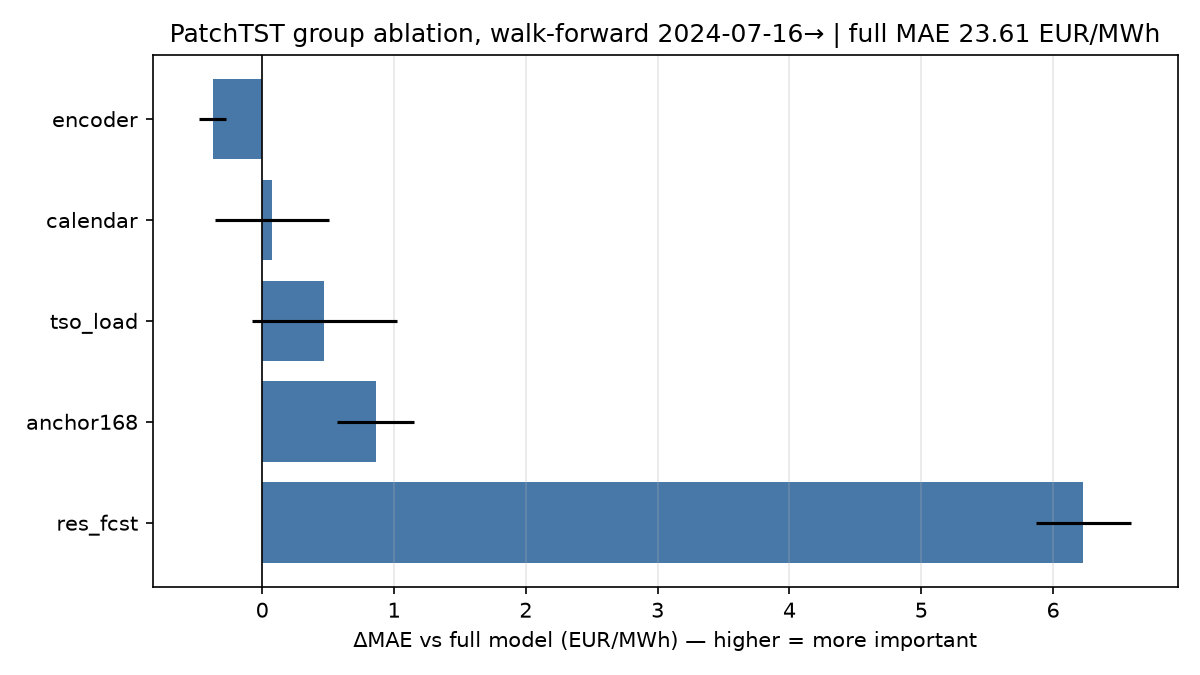
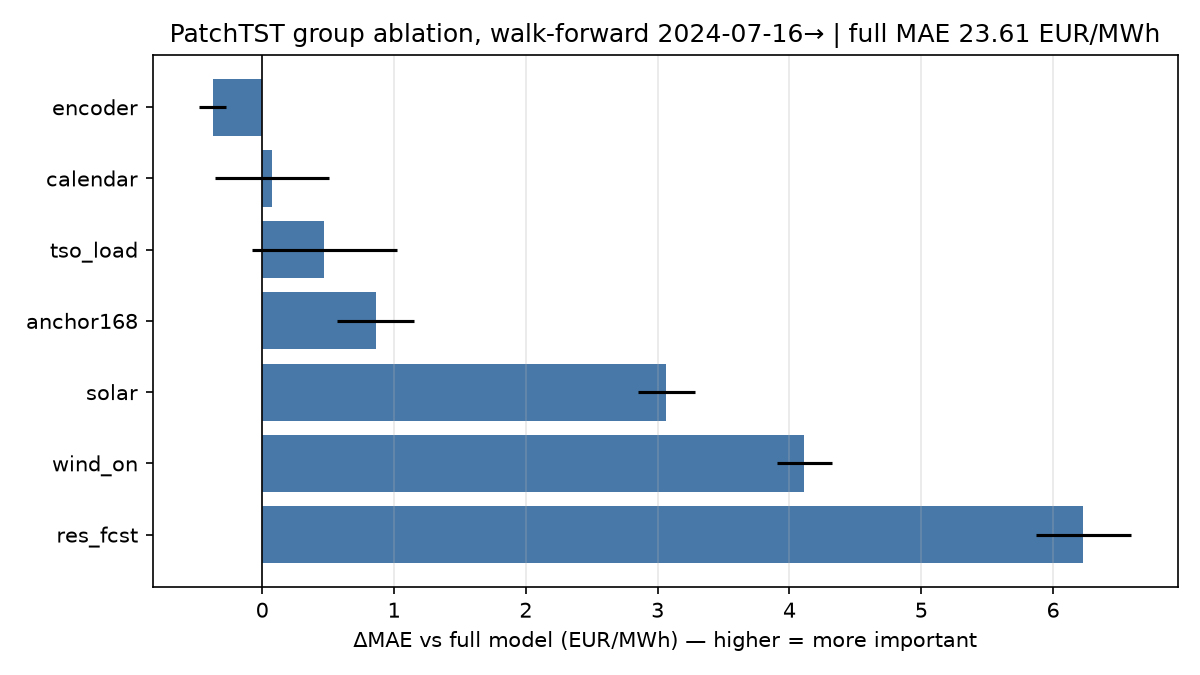
results: RES-split ablation — wind forecast beats solar (+4.1 vs +3.1 EUR/MWh)
Per-feature ablation inside the RES group, 3 seeds each:
- solar only:   MAE 26.67 (+3.07 vs full 23.61)
- wind_on only: MAE 27.72 (+4.11)
- joint RES:    MAE 29.84 (+6.23)

Wind is the less predictable series, so its forecast carries more
unique information; solar is partly recoverable from calendar and
season. Individual deltas sum to 7.2 > joint 6.2 - the two forecasts
overlap (both proxy residual load).

Docs updated: sensitivity README, verdict note table, handover.

diff --git a/docs/notes/model_selection/11_patchtst_verdict.tex b/docs/notes/model_selection/11_patchtst_verdict.tex
@@ -136,7 +136,9 @@ encoder (56 d price history) & 23.23 $\pm$ 0.10 & $-0.38$ & 73.2\% \\
 calendar & 23.68 $\pm$ 0.43 & $+0.08$ & 71.4\% \\
 TSO load forecast & 24.08 $\pm$ 0.55 & $+0.47$ & 70.7\% \\
 anchor (lag-168 price) & 24.47 $\pm$ 0.30 & $+0.86$ & 67.2\% \\
-RES forecast & 29.84 $\pm$ 0.36 & $+6.23$ & 74.0\% \\
+solar forecast only & 26.67 $\pm$ 0.22 & $+3.07$ & 69.0\% \\
+onshore wind forecast only & 27.72 $\pm$ 0.21 & $+4.11$ & 73.3\% \\
+RES forecast (all) & 29.84 $\pm$ 0.36 & $+6.23$ & 74.0\% \\
 \bottomrule
 \end{tabular}
 \end{center}
@@ -152,6 +154,11 @@ Two facts jump out.
   \item \textbf{The RES forecast carries the skill} ($+6.2$ EUR/MWh).
         Without it the model is worse than naive (rMAE 1.07).
         Merit-order: renewables set the day-ahead price.
+  \item \textbf{Within RES, wind beats solar} ($+4.1$ vs $+3.1$).
+        Wind is the less predictable series, so its forecast carries
+        more unique information; solar is partly recoverable from
+        calendar and season. Individual deltas sum to 7.2 $>$ joint
+        6.2 --- the two forecasts overlap (both proxy residual load).
 \end{itemize}
 
 \textbf{Permutation vs ablation --- a teaching moment.} Permutation

diff --git a/src/models/deep/patchtst_feature_analysis.py b/src/models/deep/patchtst_feature_analysis.py
@@ -73,6 +73,8 @@ FUT_COLS = FUTURE_CAL_COLS + [
 GROUPS: dict[str, list[int]] = {
     "calendar": list(range(0, 7)),
     "res_fcst": [7, 8, 9],
+    "solar": [7],          # res_fcst split: which RES component carries it?
+    "wind_on": [8],        # (wind_off is structurally zero pre-2026 — skipped)
     "tso_load": [10],
     "anchor168": [11],
     "encoder": [],

diff --git a/reports/sensitivity/patchtst/README.md b/reports/sensitivity/patchtst/README.md
@@ -30,11 +30,18 @@ Zero one input group after standardization, retrain, rerun the full
 | calendar   |   23.683 |   0.434 | 0.848 |        71.4% |       +0.076 |
 | tso_load   |   24.079 |   0.549 | 0.862 |        70.7% |       +0.473 |
 | anchor168  |   24.466 |   0.296 | 0.876 |        67.2% |       +0.860 |
+| solar      |   26.673 |   0.217 | 0.955 |        69.0% |       +3.066 |
+| wind_on    |   27.721 |   0.212 | 0.993 |        73.3% |       +4.114 |
 | res_fcst   |   29.838 |   0.360 | 1.068 |        74.0% |       +6.231 |
 
 - **res_fcst (solar + onshore + offshore wind forecast): +6.2 EUR/MWh.**
   Without it the model is worse than the naive lag-24 baseline (rMAE 1.07).
   Merit-order in action: renewables set tomorrow's price.
+- **RES split: wind (+4.1) beats solar (+3.1).** Wind is the less
+  predictable series, so its forecast carries more unique information —
+  solar is partly recoverable from calendar + season. The individual
+  deltas sum to 7.2 > joint 6.2: the two forecasts overlap (both proxy
+  residual load).
 - **anchor168 (+0.9) and tso_load (+0.5)**: small but real.
 - **calendar (+0.1)**: redundant. Weekly rhythm already sits in the
   RES/TSO forecasts and the anchor.

diff --git a/docs/handovers/2026-07-19_patchtst-feature-analysis.md b/docs/handovers/2026-07-19_patchtst-feature-analysis.md
@@ -33,7 +33,9 @@ All numbers: `reports/sensitivity/patchtst/` (README has the full story).
 | calendar | 23.68 | +0.08 |
 | tso_load | 24.08 | +0.47 |
 | anchor168 | 24.47 | +0.86 |
-| res_fcst | 29.84 | **+6.23** |
+| solar only | 26.67 | +3.07 |
+| wind_on only | 27.72 | +4.11 |
+| res_fcst (all) | 29.84 | **+6.23** |
 
 - The price-history encoder adds NOTHING. Zeroing it even improves
   coverage (68.5% → 73.2%). PatchTST's core premise is dead weight here.
@@ -65,8 +67,8 @@ is a no-op; wind_off zeroed by the zero-variance guard.
 
 1. Shadow track record continues (`docs/shadow_tally.md`).
 2. Portfolio README once track record established.
-3. Optional follow-up: per-feature ablation inside res_fcst
-   (solar vs wind_on) — cheap now, ~20 min per walk-forward.
+3. ~~Per-feature ablation inside res_fcst~~ DONE same session:
+   wind_on +4.11 > solar +3.07; sum 7.2 > joint 6.2 (overlap).
 
 ## Key numbers to remember
 

diff --git a/reports/sensitivity/patchtst/auto_report.md b/reports/sensitivity/patchtst/auto_report.md
@@ -16,6 +16,8 @@ Zero one input group, retrain, rerun 2-year walk-forward.
 | calendar  |     23.683 |     0.434 |       0.848 |     71.35  |       3 |       0.076 |
 | tso_load  |     24.079 |     0.549 |       0.862 |     70.662 |       3 |       0.473 |
 | anchor168 |     24.466 |     0.296 |       0.876 |     67.151 |       3 |       0.86  |
+| solar     |     26.673 |     0.217 |       0.955 |     69.027 |       3 |       3.066 |
+| wind_on   |     27.721 |     0.212 |       0.993 |     73.331 |       3 |       4.114 |
 | res_fcst  |     29.838 |     0.36  |       1.068 |     73.958 |       3 |       6.231 |
 
 ![ablation](ablation_delta_mae.png)
